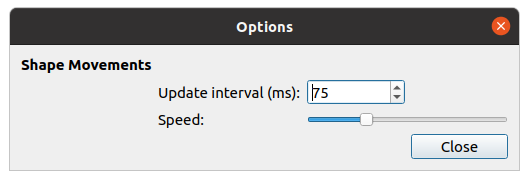
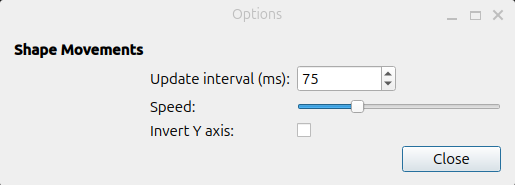
Invert Y axis checkbox (#211)

Pull request: Invert Y axis checkbox
<!-- Provide a general summary of your changes in the Title above -->
<!-- It must be meaningful and coherent with the changes -->

<!--
    If this PR is still a Work in Progress [WIP], please open it as DRAFT.
    Please consider if any label should be added to this PR.
-->

## Description
<!--
    Describe changes in detail.
    If several features/bug fixes are included with these changes, please consider opening separated pull requests.
-->

- Adds a description for the Invert Y axis checkbox in preferences.
- Changes the preferences image to account for the new checkbox.

<!--
    In case of bug fixes, please provide the list of supported branches where this fix should be also merged.
    Please uncomment following line, adjusting the corresponding target branches for the backport.
-->
<!-- @user backport 3.2.x 2.14.x -->

<!-- If an issue is already opened, please uncomment next line with the corresponding issue number. -->
<!-- Fixes #(issue) -->

<!-- In case the changes are built over a previous pull request, please uncomment next line. -->
<!-- This PR depends on #(PR) and must be merged after that one. -->

<!-- In case the changes are related to an implementation PR, please uncomment the next lines. -->
<!--
Related implementation PR:
* eProsima/ShapesDemo#(PR)
-->

## Contributor Checklist

<!--
    - If any of the elements of the following checklist is not applicable, substitute the checkbox [ ] by _N/A_:
[…]

diff --git a/docs/first_steps/first_steps.rst b/docs/first_steps/first_steps.rst
@@ -219,6 +219,8 @@ The user can customize several aspects of Shapes Demo operation:
 
 - **Speed:** This scroll bar allows the user to change how much the Shape moves between two write calls.
 
+- **Invert Y axis:** This checkbox inverts the Y axis visually, it does not modify the underlying value.
+
 Endpoints and Output tabs
 -------------------------
 